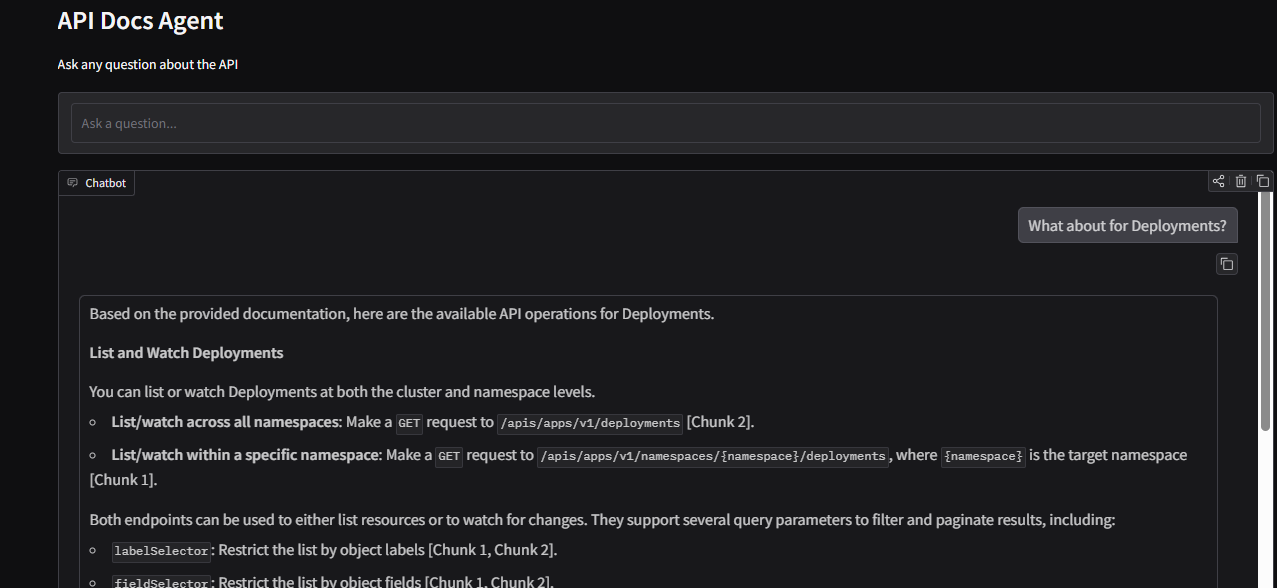
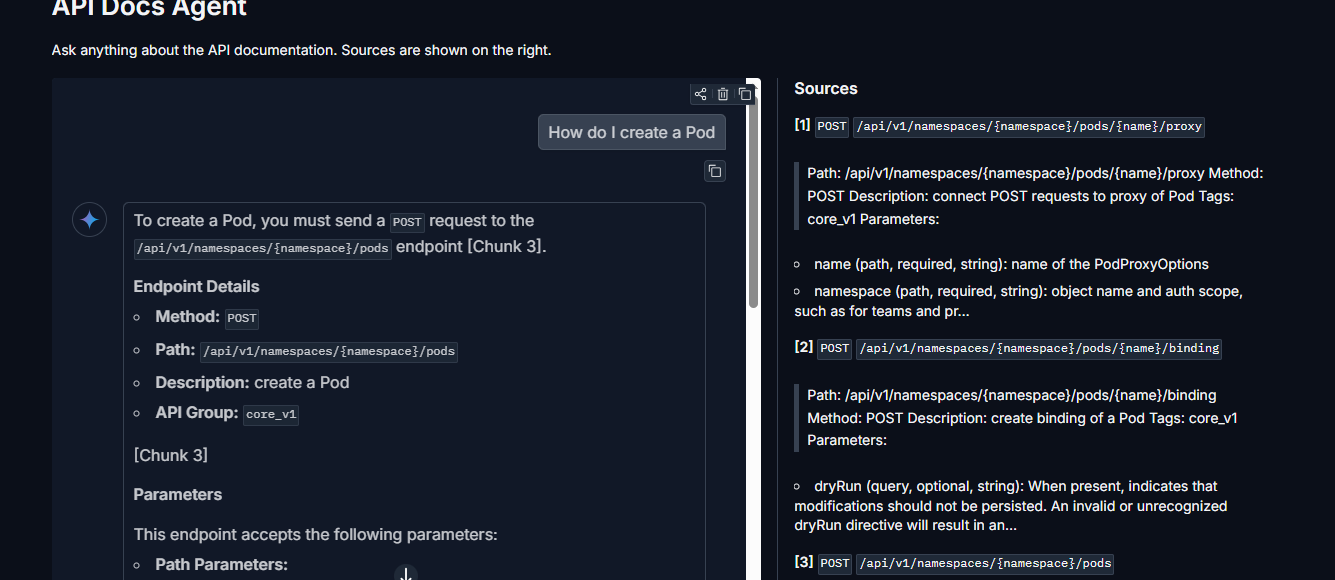
Add updated chat demo and sources panel images to assets

Changed region(s): [[0.0305, 0.1241, 1.0, 1.0], [0.0305, 0.0, 0.4276, 0.1241]]

diff --git a/README.md b/README.md
@@ -8,9 +8,11 @@ This workshop uses the **Kubernetes API** as the example, but the same pipeline 
 
 ![Chat demo](assets/chat-demo.png)
 
-*Left: streamed answer with citations. Right: source chunks retrieved from Vertex AI Search.*
+*Chat on the left, retrieved source chunks on the right. Answers stream in real time.*
 
 ![Sources panel](assets/sources-panel.png)
+
+*Each source shows the HTTP method, endpoint path, and a snippet from the indexed documentation.*
 
 ## How it works
 
